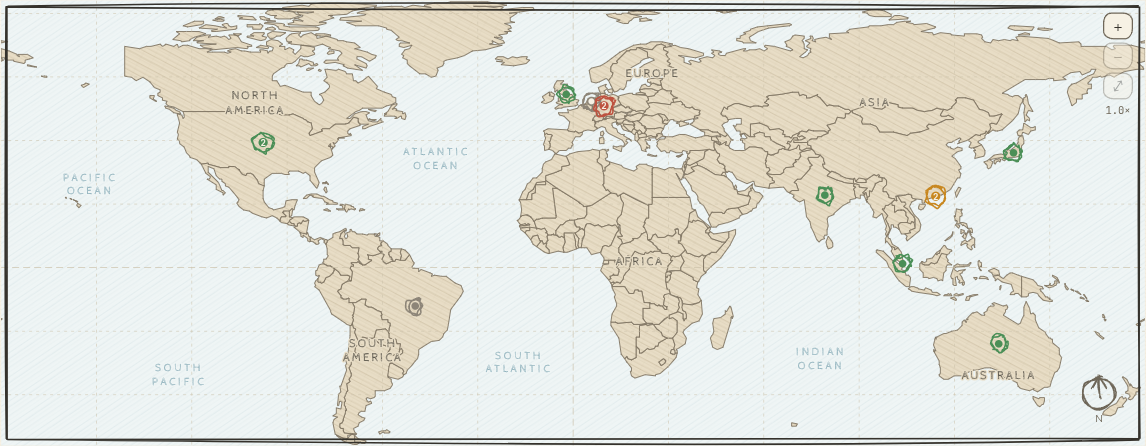
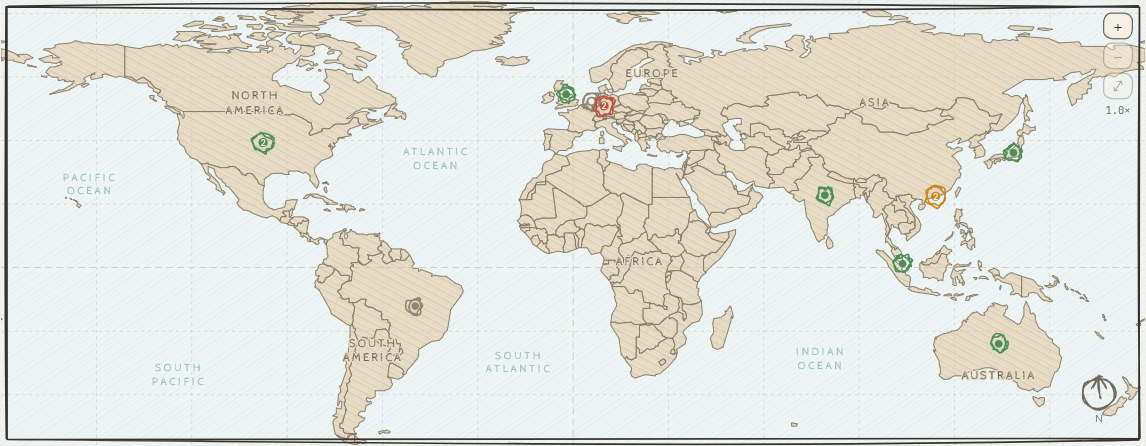
地图：修回被简化掉的阿拉斯加
simplify() 的 RDP 基线取环的首尾两点。阿拉斯加的环重复了首顶点，
基线长度为零，于是 `Math.hypot(0,0) || 1` 把长度当作 1，每个点到
基线的垂距都算成 0，一个点都留不下来，整个环被当成退化环丢掉——
西海岸于是被压成一条 lon -141 的直线。

零长基线没有方向，改为量到点本身。全量扫过 110m：只有这一个环
命中。美国的子路径从 9 条变 10 条。

截图一并重出。

Changed region(s): [[0.0305, 0.0874, 0.1222, 0.204], [0.1222, 0.1749, 0.1527, 0.204]]

diff --git a/map-preview/world.ts b/map-preview/world.ts
@@ -20,7 +20,7 @@ export const COUNTRIES: Country[] = [
   { id: "TZ", name: "坦桑尼亚", d: "M594 236 605 242 605 244 609 246 608 250 608 251 610 252 609 257 612 262 610 264 601 266 596 265 595 262 594 260 585 257 584 253 582 252 581 246 583 246 585 243 585 240 586 238 584 237 589 236 594 236Z" },
   { id: "EH", name: "西撒哈拉", d: "M476 157 476 161 467 161 467 168 464 169 464 170 464 174 453 174 453 175 453 174 459 174 461 168 465 165 468 159 476 158 476 157Z" },
   { id: "CA", name: "加拿大", d: "M159 97 151 93 146 92 144 90 145 88 141 87 141 85 137 83 137 81 139 80 139 78 134 76 130 71 124 67 118 70 114 67 108 66 108 40 121 42 127 40 131 40 139 38 141 40 143 39 144 38 151 40 154 38 155 41 159 39 163 39 173 42 180 42 184 43 180 45 185 45 195 45 198 46 201 45 198 44 200 43 205 42 210 44 213 44 218 45 227 45 226 43 229 43 233 44 233 46 235 44 237 44 238 41 232 39 232 36 236 34 242 35 246 38 243 40 248 40 248 43 252 41 256 43 255 45 257 47 262 42 262 39 270 40 274 41 274 43 272 44 274 46 274 47 268 49 265 49 262 48 257 53 254 55 250 55 248 57 248 58 245 59 238 64 237 66 237 70 241 70 244 75 248 74 264 80 271 80 271 83 272 85 274 88 278 91 280 90 282 87 280 83 278 82 283 80 287 76 287 74 285 72 282 70 285 67 283 60 285 60 293 61 295 60 301 62 302 64 307 64 308 70 310 70 312 72 316 70 321 66 329 75 328 77 335 80 341 82 342 84 345 85 345 89 341 91 337 92 333 94 316 94 313 96 310 97 302 103 305 103 309 99 315 97 319 97 322 98 319 100 321 105 325 106 329 106 332 103 332 105 334 106 322 110 318 112 316 112 316 110 321 108 314 108 312 106 312 103 308 102 304 107 301 108 292 108 287 112 281 112 280 113 281 114 270 118 269 116 272 112 271 107 268 106 266 104 265 104 264 103 255 99 252 100 245 100 238 98 237 96 236 96 236 97 167 97 159 97ZM267 60 269 59 273 59 269 61 267 61 267 60ZM278 31 275 30 275 29 283 29 288 30 288 31 279 31 278 31ZM277 61 278 60 280 61 279 62 277 61ZM240 25 238 26 231 25 233 24 237 23 239 24 240 25ZM239 18 233 18 232 17 240 18 239 18ZM231 15 235 16 234 17 230 17 227 16 226 14 230 14 231 15ZM255 27 243 25 242 23 239 21 230 20 231 19 246 20 248 21 247 22 252 23 275 23 278 24 278 25 277 26 261 27 255 27ZM191 16 195 17 194 18 189 18 185 17 187 17 191 16ZM192 14 195 15 187 16 190 14 192 14ZM346 91 342 95 344 94 346 95 345 96 351 97 351 99 353 98 354 101 353 104 350 103 350 101 349 101 346 103 344 103 346 102 344 101 335 101 335 100 337 99 335 99 338 97 341 92 342 91 346 90 346 91ZM267 52 273 54 273 56 276 55 277 56 275 57 271 57 269 55 262 58 261 57 258 57 260 55 261 51 263 51 264 52 265 52 267 52ZM281 32 284 31 294 34 294 35 299 35 302 36 309 37 314 41 309 42 320 45 324 47 328 48 327 50 322 53 315 49 311 49 311 51 319 55 320 57 319 59 309 56 316 61 303 59 299 57 300 56 292 54 284 55 282 54 284 52 295 52 294 51 295 49 298 46 296 44 286 42 288 41 285 40 281 38 274 40 264 39 254 38 251 37 254 36 250 36 249 33 252 30 254 29 262 28 260 30 262 32 264 30 271 28 276 31 276 33 281 32ZM237 27 249 28 244 31 241 31 238 33 235 33 233 31 233 29 235 28 237 27ZM159 22 169 18 177 18 177 20 175 21 163 23 159 22ZM131 83 134 83 133 86 136 88 135 88 130 85 130 83 131 83ZM207 13 220 14 223 17 208 16 211 15 207 14 207 13ZM157 99 156 99 151 98 147 95 144 94 143 92 151 94 153 96 156 97 157 99ZM162 27 173 27 179 29 169 32 165 34 165 35 158 36 157 35 150 34 156 29 153 27 162 27ZM201 23 206 22 206 24 205 25 188 27 184 27 184 26 189 25 173 24 177 22 179 21 187 22 192 23 197 24 193 21 196 20 198 20 199 22 201 23ZM204 30 207 31 210 36 219 39 219 40 215 40 216 41 215 42 206 41 185 43 184 42 177 41 174 39 188 38 172 37 171 36 177 35 168 35 171 32 180 30 183 30 181 32 188 31 192 32 195 31 197 32 199 34 201 33 199 30 201 30 204 30ZM221 31 218 30 221 28 230 28 230 29 228 31 232 32 231 34 227 35 215 32 215 31 221 31ZM204 29 210 29 207 31 203 29 204 29ZM226 20 229 22 227 25 220 25 220 23 215 23 215 21 226 21 226 20ZM233 9 238 8 237 8 243 8 247 9 256 10 258 12 262 13 253 16 242 16 239 15 239 14 241 13 236 13 231 11 233 9ZM246 6 263 4 269 5 271 3 280 2 298 2 328 4 328 5 312 7 318 7 307 9 302 12 286 13 290 13 288 14 291 15 278 19 279 19 284 19 284 20 276 22 251 21 251 20 256 19 255 17 264 18 260 16 256 16 263 14 264 13 260 12 259 10 268 11 273 10 257 10 246 7 246 6ZM291 46 286 47 285 46 287 44 289 44 291 44 291 46ZM233 40 234 41 233 42 223 41 227 39 232 40 233 40ZM321 95 328 96 327 97 323 96 321 95ZM322 103 323 104 328 104 326 105 322 104 321 104 322 103Z" },
-  { id: "US", name: "美国", d: "M159 97 236 97 236 96 237 96 238 98 245 100 252 100 255 99 264 103 265 104 266 104 268 106 271 107 272 112 269 116 270 118 281 114 280 113 281 112 287 112 292 108 301 108 304 107 308 102 312 103 312 106 314 109 305 112 303 114 303 116 304 117 305 117 305 116 306 117 306 118 295 120 300 120 295 120 294 121 295 121 294 123 292 125 290 124 292 127 289 130 290 128 288 127 288 125 287 126 288 128 286 127 288 128 290 135 288 137 280 140 274 146 274 150 278 159 277 162 276 164 275 163 270 157 270 154 270 153 266 150 264 151 260 149 252 149 251 150 252 152 248 152 245 151 241 151 237 151 230 156 230 159 230 162 229 162 225 160 224 157 220 152 218 151 215 151 214 153 211 152 210 151 208 148 204 145 199 145 199 146 192 146 181 143 181 142 175 143 174 142 171 139 165 137 165 136 162 133 160 128 156 125 156 123 154 121 155 117 154 115 156 107 155 103 154 100 154 99 158 100 159 103 160 102 160 100 159 97ZM68 178 70 179 68 181 66 179 67 177 68 178ZM67 176 66 176 65 175 66 175 67 176ZM65 175 63 174 65 175ZM61 173 62 174 60 173 61 173ZM57 172 57 173 56 172 57 172ZM38 66 40 66 40 67 38 67 35 66 38 66ZM74 72 77 73 72 76 71 75 70 74 73 73 74 72ZM23 56 31 58 29 58 23 57 23 56Z" },
+  { id: "US", name: "美国", d: "M159 97 236 97 236 96 237 96 238 98 245 100 252 100 255 99 264 103 265 104 266 104 268 106 271 107 272 112 269 116 270 118 281 114 280 113 281 112 287 112 292 108 301 108 304 107 308 102 312 103 312 106 314 109 305 112 303 114 303 116 304 117 305 117 305 116 306 117 306 118 295 120 300 120 295 120 294 121 295 121 294 123 292 125 290 124 292 127 289 130 290 128 288 127 288 125 287 126 288 128 286 127 288 128 290 135 288 137 280 140 274 146 274 150 278 159 277 162 276 164 275 163 270 157 270 154 270 153 266 150 264 151 260 149 252 149 251 150 252 152 248 152 245 151 241 151 237 151 230 156 230 159 230 162 229 162 225 160 224 157 220 152 218 151 215 151 214 153 211 152 210 151 208 148 204 145 199 145 199 146 192 146 181 143 181 142 175 143 174 142 171 139 165 137 165 136 162 133 160 128 156 125 156 123 154 121 155 117 154 115 156 107 155 103 154 100 154 99 158 100 159 103 160 102 160 100 159 97ZM68 178 70 179 68 181 66 179 67 177 68 178ZM67 176 66 176 65 175 66 175 67 176ZM65 175 63 174 65 175ZM61 173 62 174 60 173 61 173ZM57 172 57 173 56 172 57 172ZM38 66 40 66 40 67 38 67 35 66 38 66ZM74 72 77 73 72 76 71 75 70 74 73 73 74 72ZM108 40 108 66 114 67 118 70 124 67 130 71 134 76 139 78 139 80 137 81 133 79 133 77 129 75 128 72 120 72 111 68 104 66 100 67 91 64 88 65 89 67 79 69 78 67 79 65 82 64 82 63 72 68 74 70 72 72 66 74 65 75 61 77 60 78 47 81 42 82 51 78 54 78 59 75 62 73 64 70 61 71 60 70 58 71 56 70 56 71 55 69 50 70 50 68 49 67 45 67 41 65 41 64 39 63 40 61 43 58 47 58 49 57 53 56 53 55 51 54 53 53 48 55 42 54 38 54 33 51 43 48 45 48 45 50 51 50 41 44 37 43 38 42 43 42 47 41 47 39 50 38 61 37 65 35 69 36 71 37 77 37 81 38 97 39 101 38 108 40ZM23 56 31 58 29 58 23 57 23 56Z" },
   { id: "KZ", name: "哈萨克斯坦", d: "M743 97 741 99 738 99 738 102 737 103 731 102 729 107 722 109 725 113 723 114 723 116 720 114 710 114 706 113 705 114 704 115 700 114 698 115 697 116 692 118 691 120 690 120 689 119 685 119 685 117 683 117 684 114 680 112 672 113 670 110 663 107 655 108 655 119 654 119 650 116 646 117 646 114 643 114 640 109 642 110 643 108 647 108 647 103 642 103 636 104 635 104 635 103 633 101 631 101 629 99 632 93 635 95 635 93 641 90 645 90 655 93 658 92 662 92 666 93 666 92 670 92 671 91 667 89 669 88 669 87 671 86 669 84 671 83 681 82 692 80 697 80 698 83 701 82 704 83 704 85 707 85 714 82 713 83 716 85 722 92 724 91 728 92 732 92 738 95 741 95 743 97Z" },
   { id: "UZ", name: "乌兹别克斯坦", d: "M655 119 655 108 663 107 670 110 672 113 680 112 684 114 683 117 685 117 685 119 689 119 690 120 691 120 692 118 696 116 698 116 696 118 698 119 700 118 703 120 699 122 696 122 696 120 693 120 690 124 688 123 687 125 689 125 690 127 688 130 685 130 685 128 678 125 673 122 672 119 668 119 667 118 667 116 663 115 658 117 659 119 655 119Z" },
   { id: "PG", name: "巴布亚新几内亚", d: "M892 241 902 244 905 247 906 249 910 250 911 252 908 252 909 254 911 256 913 259 915 259 915 260 917 260 916 261 919 262 919 263 917 263 911 262 907 258 906 256 902 255 898 256 898 258 896 259 892 259 892 250 892 241ZM924 244 925 246 925 247 923 244 919 241 919 240 923 242 924 244ZM920 250 916 251 912 249 916 249 917 247 917 249 919 249 921 247 921 245 923 245 923 247 922 249 921 249 920 250ZM930 248 933 252 932 253 931 252 930 250 930 247 930 248Z" },
